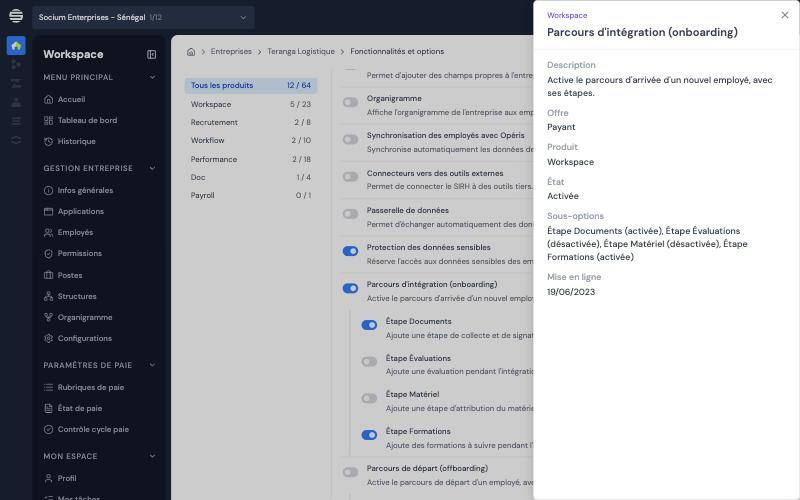
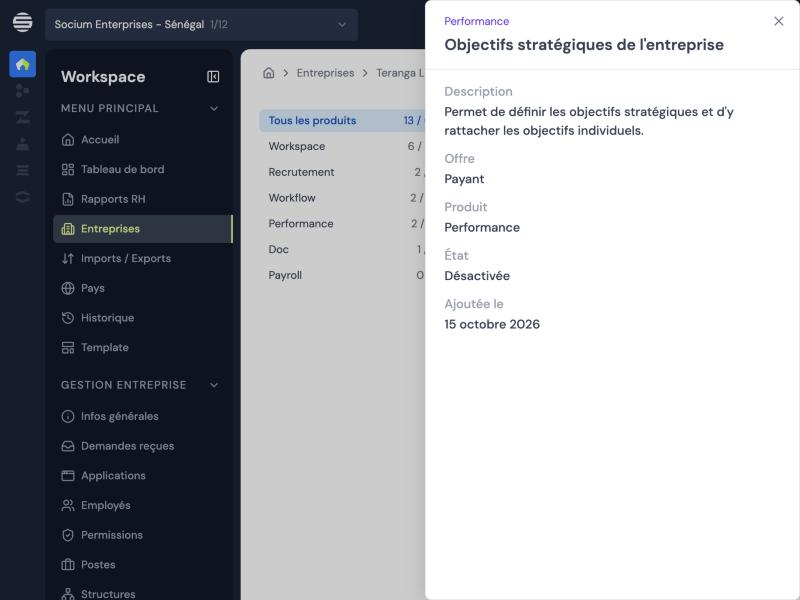
Workspace > Entreprises : filtre « Nouveautés », badge « Nouveau · {date} » avec infobulle, « Ajoutée le » dans le panneau
- Filtre rapide « Nouvelles » renommé « Nouveautés » ; quand il est actif, ligne d'explication « Options ajoutées ces 30 derniers jours. » au-dessus de la liste.
- Badge « Nouveau · 15 oct. » (tag information du kit) focalisable, avec infobulle du kit : « Ajoutée le 15 octobre 2026. À vérifier : si elle est standard, vous pouvez l'activer pour ce client. » Texte complet lu par le lecteur d'écran.
- Panneau latéral : « Ajoutée le {date} » pour toute option datée (remplace « Mise en ligne »).
- Mock : nouveautés ajoutées le 15/10/2026. Tests et captures mis à jour.

Changed region(s): [[0.0, 0.0, 0.9688, 1.0], [0.9688, 0.0, 1.0, 0.06], [0.3438, 0.45, 0.375, 0.48]]

diff --git a/src/mocks/data/options-entreprise.mock.ts b/src/mocks/data/options-entreprise.mock.ts
@@ -57,11 +57,11 @@ export const OPTIONS_ENTREPRISE: OptionEntreprise[] = [
   { id: 'workflow-renvoi-d-une-demande-pour-correction', produit: 'workflow', libelle: "Renvoi d'une demande pour correction", description: 'Permet au valideur de renvoyer une demande à son auteur pour correction.', offre: 'standard', miseEnLigne: '2024-12-02' },
   { id: 'workflow-libelles-de-validation-personnalises', produit: 'workflow', libelle: 'Libellés de validation personnalisés', description: 'Permet de renommer les étapes et les boutons de validation.', offre: 'standard', miseEnLigne: '2025-04-14' },
   { id: 'workflow-documents-dans-les-demandes-workflow', produit: 'workflow', libelle: 'Documents dans les demandes Workflow', description: 'Permet de générer ou de joindre des documents dans une demande.', offre: 'standard', miseEnLigne: '2025-09-08' },
-  { id: 'workflow-champs-calcules-et-groupes-repetables', produit: 'workflow', libelle: 'Champs calculés et groupes répétables', description: 'Ajoute des champs calculés et des blocs de champs répétables aux formulaires.', offre: 'standard', nouveau: true, miseEnLigne: '2026-10-12' },
+  { id: 'workflow-champs-calcules-et-groupes-repetables', produit: 'workflow', libelle: 'Champs calculés et groupes répétables', description: 'Ajoute des champs calculés et des blocs de champs répétables aux formulaires.', offre: 'standard', nouveau: true, miseEnLigne: '2026-10-15' },
   { id: 'performance-module-formations', produit: 'performance', libelle: 'Module Formations', description: 'Active la gestion des formations.', offre: 'payant', miseEnLigne: '2023-06-19' },
   { id: 'performance-gestion-des-habilitations', produit: 'performance', libelle: 'Gestion des habilitations', description: "Suit les habilitations des employés et leurs dates d'expiration.", offre: 'payant', miseEnLigne: '2023-11-13' },
   { id: 'performance-contenus-de-formation-en-ligne', produit: 'performance', libelle: 'Contenus de formation en ligne', description: "Permet d'intégrer des contenus de formation dans le SIRH.", offre: 'standard', miseEnLigne: '2024-03-04' },
-  { id: 'performance-objectifs-strategiques-de-l-entreprise', produit: 'performance', libelle: "Objectifs stratégiques de l'entreprise", description: "Permet de définir les objectifs stratégiques et d'y rattacher les objectifs individuels.", offre: 'payant', nouveau: true, miseEnLigne: '2026-10-12' },
+  { id: 'performance-objectifs-strategiques-de-l-entreprise', produit: 'performance', libelle: "Objectifs stratégiques de l'entreprise", description: "Permet de définir les objectifs stratégiques et d'y rattacher les objectifs individuels.", offre: 'payant', nouveau: true, miseEnLigne: '2026-10-15' },
   { id: 'performance-bareme-des-notes-d-evaluation', produit: 'performance', libelle: "Barème des notes d'évaluation", description: "Permet de choisir le barème d'affichage des notes.", offre: 'standard', miseEnLigne: '2024-12-02' },
   { id: 'performance-origine-des-demandes-de-formation', produit: 'performance', libelle: 'Origine des demandes de formation', description: "Indique d'où vient une demande de formation.", offre: 'standard', miseEnLigne: '2025-04-14' },
   { id: 'performance-perimetre-de-donnees-par-utilisateur', produit: 'performance', libelle: 'Périmètre de données par utilisateur', description: 'Limite les données visibles par un utilisateur à son périmètre.', offre: 'standard', miseEnLigne: '2025-09-08' },
@@ -75,7 +75,7 @@ export const OPTIONS_ENTREPRISE: OptionEntreprise[] = [
   { id: 'performance-plans-de-carriere', produit: 'performance', libelle: 'Plans de carrière', description: "Permet de construire un parcours d'évolution pour chaque employé.", offre: 'payant', miseEnLigne: '2025-09-08' },
   { id: 'performance-matrice-9-box', produit: 'performance', libelle: 'Matrice 9-box', description: 'Positionne les employés selon leur performance et leur potentiel.', offre: 'payant', miseEnLigne: '2023-02-06' },
   { id: 'performance-referentiel-de-competences', produit: 'performance', libelle: 'Référentiel de compétences', description: 'Active le référentiel de compétences et leur évaluation.', offre: 'payant', miseEnLigne: '2023-06-19' },
-  { id: 'performance-gestion-des-objectifs-de-la-ligne-hierarchique', produit: 'performance', libelle: 'Gestion des objectifs de la ligne hiérarchique', description: 'Permet à un manager de modifier les objectifs de toute sa ligne hiérarchique.', offre: 'standard', nouveau: true, miseEnLigne: '2026-10-12' },
+  { id: 'performance-gestion-des-objectifs-de-la-ligne-hierarchique', produit: 'performance', libelle: 'Gestion des objectifs de la ligne hiérarchique', description: 'Permet à un manager de modifier les objectifs de toute sa ligne hiérarchique.', offre: 'standard', nouveau: true, miseEnLigne: '2026-10-15' },
   { id: 'doc-signature-electronique-des-documents', produit: 'doc', libelle: 'Signature électronique des documents', description: 'Permet de faire signer électroniquement les documents RH (contrats, attestations…).', offre: 'payant', miseEnLigne: '2024-03-04' },
   { id: 'doc-variables-de-paie-dans-les-documents', produit: 'doc', libelle: 'Variables de paie dans les documents', description: "Permet d'insérer des données de paie dans les modèles de documents.", offre: 'standard', miseEnLigne: '2024-07-15' },
   { id: 'doc-variables-workflow-dans-les-documents', produit: 'doc', libelle: 'Variables Workflow dans les documents', description: "Permet d'insérer des données de demandes dans les modèles de documents.", offre: 'standard', miseEnLigne: '2024-12-02' },

diff --git a/src/app/products/workspace/modules/entreprises/options/options-entreprise-page.component.ts b/src/app/products/workspace/modules/entreprises/options/options-entreprise-page.component.ts
@@ -17,9 +17,10 @@ import {
   type LabsNavListItem,
 } from '../../../../../shared/labs/labs';
 import type { OptionEntreprise, ProduitOption } from '../models/option-entreprise.model';
+import { BadgeNouveauComponent } from './components/badge-nouveau.component';
 import { OptionsOutilsComponent } from './components/options-outils.component';
 import { TagOffreComponent } from './components/tag-offre.component';
-import { MESSAGE_OPTION_PAYANTE, grouperOptions } from './options-entreprise';
+import { EXPLICATION_NOUVEAUTES, MESSAGE_OPTION_PAYANTE, dateLongue, grouperOptions } from './options-entreprise';
 import { OptionsEntrepriseStore } from './options-entreprise.store';
 
 const dateFr = (iso: string) => (iso ? new Date(iso).toLocaleDateString('fr-FR') : '—');
@@ -48,6 +49,7 @@ const dateFr = (iso: string) => (iso ? new Date(iso).toLocaleDateString('fr-FR')
     SocLabsChangesBar,
     OptionsOutilsComponent,
     TagOffreComponent,
+    BadgeNouveauComponent,
   ],
   providers: [OptionsEntrepriseStore],
   styleUrl: './options-entreprise-page.component.scss',
@@ -65,6 +67,9 @@ const dateFr = (iso: string) => (iso ? new Date(iso).toLocaleDateString('fr-FR')
           <p class="options__modification" data-testid="derniere-modification">
             Dernière modification par {{ store.derniereModification().par }} le {{ dateFr(store.derniereModification().le) }}
           </p>
+          @if (store.filtre() === 'nouveautes') {
+            <p class="options__explication" data-testid="explication-filtre">{{ explicationNouveautes }}</p>
+          }
           <p class="sr-only" aria-live="polite">{{ annonce() }}</p>
 
           @for (groupe of groupes(); track groupe.produit) {
@@ -80,11 +85,13 @@ const dateFr = (iso: string) => (iso ? new Date(iso).toLocaleDateString('fr-FR')
                     [description]="ligne.option.description"
                     [checked]="store.actives().has(ligne.option.id)"
                     (checkedChange)="store.basculer(ligne.option, $event)"
-                    [isNew]="!!ligne.option.nouveau"
                     [confirmMessage]="ligne.option.offre === 'payant' ? messagePayante : undefined"
                     (labelClick)="store.ouvrirDetail(ligne.option)"
                     [attr.data-option]="ligne.option.id"
                   >
+                    @if (ligne.option.nouveau) {
+                      <app-badge-nouveau socLabsOptionRowTags [date]="ligne.option.miseEnLigne" />
+                    }
                     @if (ligne.option.offre) {
                       <app-tag-offre socLabsOptionRowTags [offre]="ligne.option.offre" />
                     }
@@ -96,10 +103,13 @@ const dateFr = (iso: string) => (iso ? new Date(iso).toLocaleDateString('fr-FR')
                         (checkedChange)="store.basculer(sous, $event)"
                         [disabled]="!store.actives().has(ligne.option.id)"
                         [disabledReason]="'Activez d’abord « ' + ligne.option.libelle + ' ».'"
-                        [isNew]="!!sous.nouveau"
                         (labelClick)="store.ouvrirDetail(sous)"
                         [attr.data-option]="sous.id"
-                      />
+                      >
+                        @if (sous.nouveau) {
+                          <app-badge-nouveau socLabsOptionRowTags [date]="sous.miseEnLigne" />
+                        }
+                      </soc-labs-option-row>
                     }
                   </soc-labs-option-row>
                 }
@@ -136,7 +146,9 @@ const dateFr = (iso: string) => (iso ? new Date(iso).toLocaleDateString('fr-FR')
         @if (sousOptionsDe(d)) {
           <soc-drawer-detail-item label="Sous-options" [value]="sousOptionsDe(d)" />
         }
-        <soc-drawer-detail-item label="Mise en ligne" [value]="dateFr(d.miseEnLigne)" />
+        @if (d.miseEnLigne) {
+          <soc-drawer-detail-item label="Ajoutée le" [value]="dateLongue(d.miseEnLigne)" data-testid="date-ajout" />
+        }
       </soc-drawer>
     }
   `,
@@ -147,6 +159,8 @@ export class OptionsEntreprisePageComponent {
 
   protected readonly messagePayante = MESSAGE_OPTION_PAYANTE;
   protected readonly dateFr = dateFr;
+  protected readonly dateLongue = dateLongue;
+  protected readonly explicationNouveautes = EXPLICATION_NOUVEAUTES;
 
   protected readonly breadcrumb = computed(() => [
     { label: 'Entreprises', onClick: () => this.router.navigateByUrl('/workspace/entreprises') },

diff --git a/src/app/products/workspace/modules/entreprises/options/options-entreprise-page.component.spec.ts b/src/app/products/workspace/modules/entreprises/options/options-entreprise-page.component.spec.ts
@@ -66,7 +66,7 @@ describe('OptionsEntreprisePageComponent', () => {
     expect(nav('Payroll').getAttribute('aria-current')).toBe('true');
   });
 
-  it('filtres rapides : Payantes, Customisations, Nouvelles, Activées', () => {
+  it('filtres rapides : Payantes, Customisations, Nouveautés, Activées', () => {
     filtre('Payantes').click();
     fixture.detectChanges();
     const tags = [...el().querySelectorAll('[data-part="tags"]')].map((t) => t.textContent!.trim());
@@ -74,13 +74,31 @@ describe('OptionsEntreprisePageComponent', () => {
     filtre('Customisations').click();
     fixture.detectChanges();
     expect(lignes()).toBe(2);
-    filtre('Nouvelles').click();
+    expect(el().querySelector('[data-testid="explication-filtre"]')).toBeNull();
+    filtre('Nouveautés').click();
     fixture.detectChanges();
-    expect([...el().querySelectorAll('[data-part="new"]')].length).toBe(3);
+    expect(el().querySelectorAll('[data-testid="badge-nouveau"]').length).toBe(3);
     expect(lignes()).toBe(3);
+    expect(el().querySelector('[data-testid="explication-filtre"]')!.textContent!.trim()).toBe('Options ajoutées ces 30 derniers jours.');
     filtre('Activées').click();
     fixture.detectChanges();
     expect(lignes()).toBe(13);
+    expect(el().querySelector('[data-testid="explication-filtre"]')).toBeNull();
+  });
+
+  it('badge « Nouveau · {date} » focalisable, avec infobulle « Ajoutée le … À vérifier … »', () => {
+    expect(el().querySelector('[data-testid="filtres"]')!.textContent).not.toContain('Nouvelles');
+    const row = ligne('performance-objectifs-strategiques-de-l-entreprise');
+    const badge = row.querySelector('[data-testid="badge-nouveau"]') as HTMLElement;
+    expect(badge.querySelector('soc-tag')!.textContent!.trim()).toBe('Nouveau · 15 oct.');
+    expect(badge.tabIndex).toBe(0);
+    badge.dispatchEvent(new FocusEvent('focusin', { bubbles: true }));
+    fixture.detectChanges();
+    const id = row.querySelector('soc-tooltip')!.getAttribute('aria-describedby')!;
+    const infobulle = document.getElementById(id)!.textContent!.replace(/\s+/g, ' ').trim();
+    expect(infobulle).toBe("Ajoutée le 15 octobre 2026. À vérifier : si elle est standard, vous pouvez l'activer pour ce client.");
+    expect(badge.querySelector('.sr-only')!.textContent).toContain('Ajoutée le 15 octobre 2026.');
+    expect(ligne('workspace-intranet').querySelector('[data-testid="badge-nouveau"]')).toBeNull();
   });
 
   it('recherche par début de mot dans le libellé et la description, sans accents ni casse ; état vide', () => {
@@ -184,7 +202,7 @@ describe('OptionsEntreprisePageComponent', () => {
     flush();
   }));
 
-  it('clic sur le libellé : panneau latéral avec description, offre, produit, sous-options, mise en ligne', () => {
+  it('clic sur le libellé : panneau latéral avec description, offre, produit, sous-options, « Ajoutée le {date} »', () => {
     (ligne('workspace-parcours-d-integration-onboarding').querySelector('[data-part="label"]') as HTMLButtonElement).click();
     fixture.detectChanges();
     const drawer = el().querySelector('soc-drawer') as HTMLElement;
@@ -193,6 +211,7 @@ describe('OptionsEntreprisePageComponent', () => {
     expect(texte).toContain('Payant');
     expect(texte).toContain('Workspace');
     expect(texte).toContain('Étape Documents (activée)');
-    expect(texte).toContain('Mise en ligne');
+    expect(texte).not.toContain('Mise en ligne');
+    expect(texte.replace(/\s+/g, ' ')).toContain('Ajoutée le 19 juin 2023');
   });
 });

diff --git a/src/app/products/workspace/modules/entreprises/options/options-entreprise.ts b/src/app/products/workspace/modules/entreprises/options/options-entreprise.ts
@@ -1,7 +1,7 @@
 import type { OffreOption, OptionEntreprise, ProduitOption } from '../models/option-entreprise.model';
 
 /** Filtres rapides de la barre d'outils. */
-export type FiltreOptions = 'toutes' | 'payantes' | 'standard' | 'customisations' | 'activees' | 'nouvelles';
+export type FiltreOptions = 'toutes' | 'payantes' | 'standard' | 'customisations' | 'activees' | 'nouveautes';
 
 export const FILTRES_OPTIONS: { id: FiltreOptions; libelle: string }[] = [
   { id: 'toutes', libelle: 'Toutes' },
@@ -9,7 +9,7 @@ export const FILTRES_OPTIONS: { id: FiltreOptions; libelle: string }[] = [
   { id: 'standard', libelle: 'Standard' },
   { id: 'customisations', libelle: 'Customisations' },
   { id: 'activees', libelle: 'Activées' },
-  { id: 'nouvelles', libelle: 'Nouvelles' },
+  { id: 'nouveautes', libelle: 'Nouveautés' },
 ];
 
 /** Tag d'offre : texte toujours présent, la couleur n'est qu'un repère (orange 6,3:1, neutre 9,4:1, violet 5,0:1). */
@@ -18,6 +18,14 @@ export const TAGS_OFFRE: Record<OffreOption, { libelle: string; couleur: 'orange
   standard: { libelle: 'Standard', couleur: 'neutral' },
   customisation: { libelle: 'Customisation client', couleur: 'purple' },
 };
+
+/** Ligne d'explication affichée au-dessus de la liste quand le filtre « Nouveautés » est actif. */
+export const EXPLICATION_NOUVEAUTES = 'Options ajoutées ces 30 derniers jours.';
+
+/** Date ISO (`AAAA-MM-JJ`) en français, lue en UTC pour ne pas changer de jour selon le fuseau. */
+export const dateCourte = (iso: string) => new Date(iso).toLocaleDateString('fr-FR', { day: 'numeric', month: 'short', timeZone: 'UTC' });
+export const dateLongue = (iso: string) =>
+  new Date(iso).toLocaleDateString('fr-FR', { day: 'numeric', month: 'long', year: 'numeric', timeZone: 'UTC' });
 
 export const MESSAGE_OPTION_PAYANTE = "Option payante : vérifiez qu'elle a été vendue au client.";
 
@@ -83,7 +91,7 @@ export function correspond(
       return offre === 'customisation';
     case 'activees':
       return estActive(option, actives);
-    case 'nouvelles':
+    case 'nouveautes':
       return !!option.nouveau;
     default:
       return true;

diff --git a/src/app/products/workspace/modules/entreprises/options/components/badge-nouveau.component.ts b/src/app/products/workspace/modules/entreprises/options/components/badge-nouveau.component.ts
@@ -1,0 +1,41 @@
+import { Component, computed, input } from '@angular/core';
+import { SocTag, SocTooltip, SocTooltipContent } from '@socium-design/angular-components';
+import { dateCourte, dateLongue } from '../options-entreprise';
+
+/**
+ * Badge « Nouveau · {date} » d'une option récente (tag `information` du kit, 5,9:1), avec une infobulle qui dit quoi en
+ * faire. Le badge est focalisable pour que l'infobulle s'ouvre au clavier ; le lecteur d'écran lit le texte complet.
+ */
+@Component({
+  selector: 'app-badge-nouveau',
+  imports: [SocTag, SocTooltip, SocTooltipContent],
+  styles: `
+    .badge {
+      position: relative;
+      display: inline-flex;
+      border-radius: var(--bridges-shape-figure-radius-sm);
+    }
+
+    .badge:focus-visible {
+      outline: var(--bridges-shape-line-thick) solid var(--bridges-color-border-focus);
+      outline-offset: var(--bridges-position-gap-xs);
+    }
+  `,
+  template: `
+    <soc-tooltip variant="extend" [title]="ajoutee()">
+      <span class="badge" tabindex="0" data-testid="badge-nouveau">
+        <soc-tag color="information" aria-hidden="true">Nouveau · {{ courte() }}</soc-tag>
+        <span class="sr-only">Nouveau. {{ ajoutee() }} {{ conseil }}</span>
+      </span>
+      <span socTooltipContent aria-hidden="true">{{ conseil }}</span>
+    </soc-tooltip>
+  `,
+})
+export class BadgeNouveauComponent {
+  /** Date ISO d'ajout de l'option. */
+  readonly date = input.required<string>();
+
+  protected readonly conseil = "À vérifier : si elle est standard, vous pouvez l'activer pour ce client.";
+  protected readonly courte = computed(() => dateCourte(this.date()));
+  protected readonly ajoutee = computed(() => `Ajoutée le ${dateLongue(this.date())}.`);
+}

diff --git a/src/app/products/workspace/modules/entreprises/models/option-entreprise.model.ts b/src/app/products/workspace/modules/entreprises/models/option-entreprise.model.ts
@@ -15,9 +15,9 @@ export interface OptionEntreprise {
   offre: OffreOption | null;
   /** Option parente (sous-option, désactivée tant que le parent est coupé). */
   parentId?: string;
-  /** Badge « Nouveau ». */
+  /** Ajoutée ces 30 derniers jours : badge « Nouveau · {date} » et filtre « Nouveautés ». */
   nouveau?: boolean;
-  /** Date ISO de mise en ligne. */
+  /** Date ISO d'ajout de l'option (« Ajoutée le … »). */
   miseEnLigne: string;
 }
 

diff --git a/src/app/products/workspace/modules/entreprises/options/options-entreprise-page.component.scss b/src/app/products/workspace/modules/entreprises/options/options-entreprise-page.component.scss
@@ -24,6 +24,12 @@
   font-size: var(--bridges-size-text-text-size-sm);
 }
 
+.options__explication {
+  margin: 0;
+  color: var(--bridges-color-text-primary);
+  font-size: var(--bridges-size-text-text-size-sm);
+}
+
 .options__groupe {
   border: var(--bridges-shape-figure-border-stroke-default) solid var(--bridges-color-border-subtle);
   border-radius: var(--bridges-shape-figure-radius-md);
